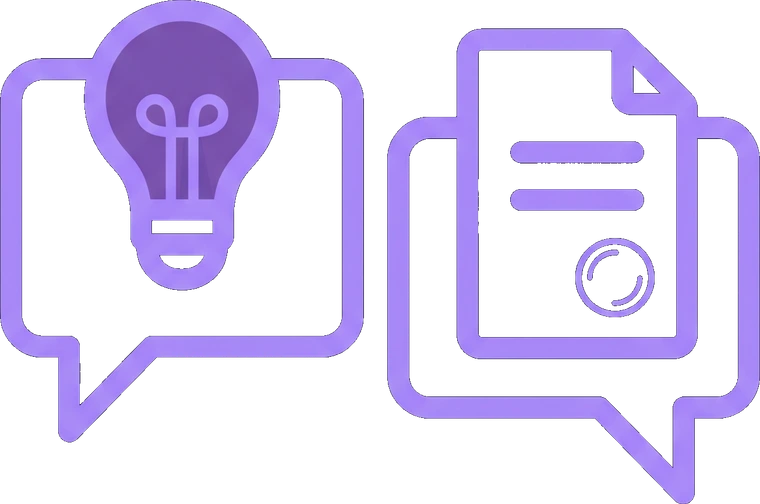
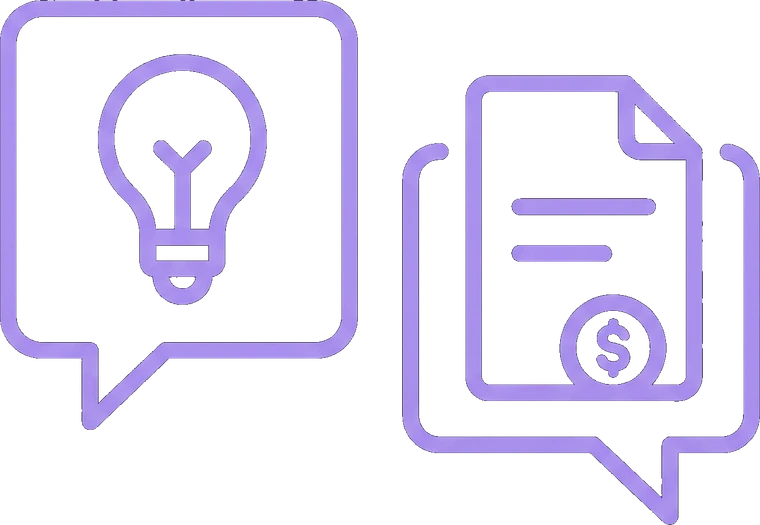
cambio(negocio): ilustración nueva del paso 1 de «De la idea al proyecto»
La burbuja con la bombilla y la de la cotización con el símbolo de
moneda. Sustituye a la anterior, que queda en `retiradas/`.

Sin marca de agua de Gemini y con el fondo sólido; se limpia igual que
las demás. 760x525, 44 kB.

Claude-Session: https://claude.ai/code/session_018rT3md63moR7eLVM2bbt1e

diff --git a/lib/sitio/contenido.ts b/lib/sitio/contenido.ts
@@ -295,7 +295,7 @@ export const ACCESOS: Acceso[] = [
         {
           titulo: 'Hablas con un talento',
           texto: 'Eliges con quién y le cuentas la idea. Te devuelve una cotización con su alcance y su precio, para que sepas qué entra y qué no.',
-          imagen: { src: '/negocio/proyecto-1-hablas.webp', ancho: 760, alto: 504 },
+          imagen: { src: '/negocio/proyecto-1-hablas.webp', ancho: 760, alto: 525 },
         },
         {
           titulo: 'Negocias el presupuesto',
